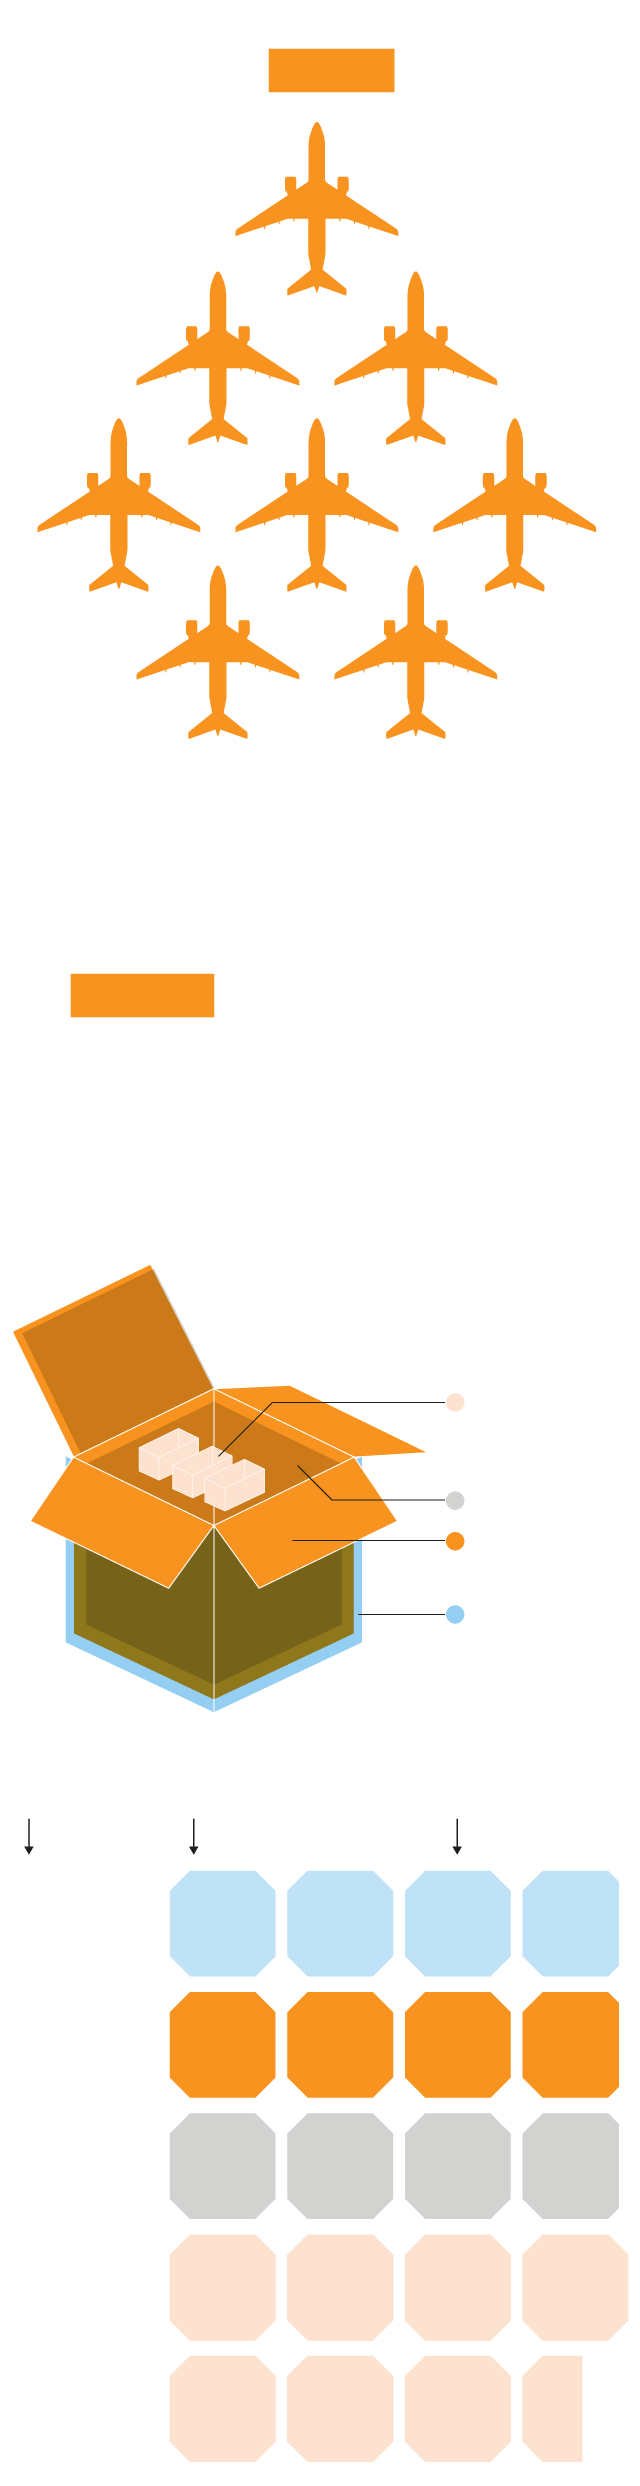
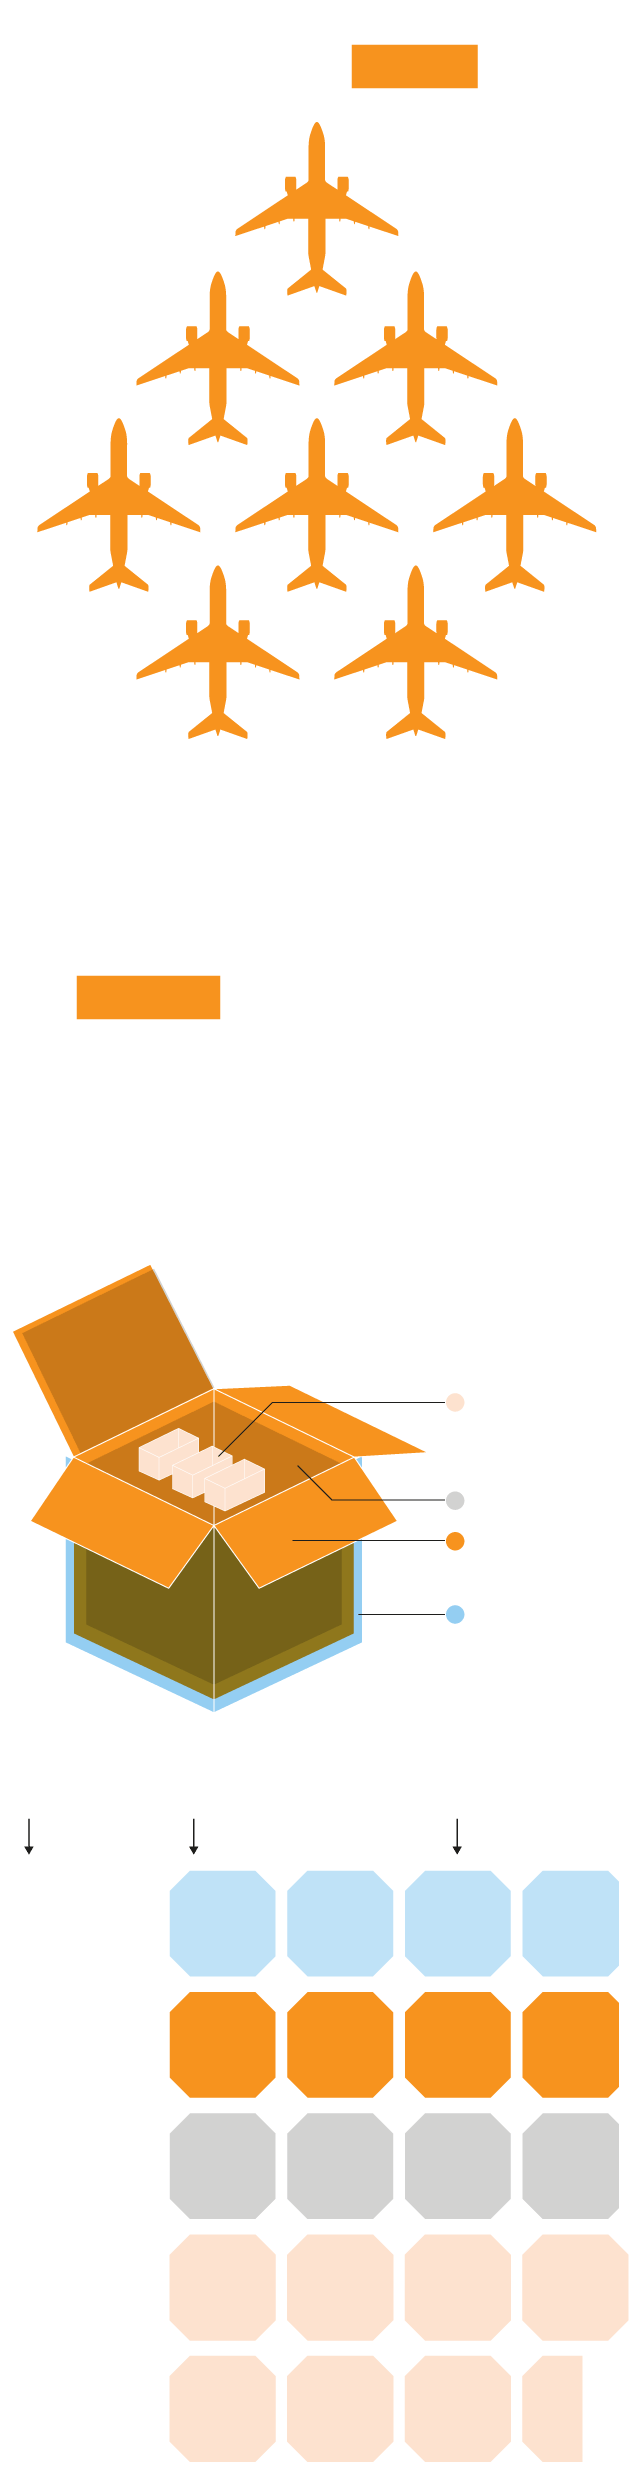
Add files via upload

diff --git a/logistica-web-v1.html b/logistica-web-v1.html
@@ -1,5 +1,5 @@
 
-<!-- Generated by ai2html v0.100.0 - 2020-12-01 22:16 -->
+<!-- Generated by ai2html v0.100.0 - 2020-12-02 18:39 -->
 <!-- ai file: logistica web.ai -->
 <style media="screen,print">
 	#g-logistica-web-v1-box ,
@@ -73,6 +73,9 @@
 		font-weight:700;
 	}
 	#g-logistica-web-v1 .g-cstyle1 {
+		font-weight:400;
+	}
+	#g-logistica-web-v1 .g-cstyle2 {
 		font-size:10px;
 	}
 
@@ -81,21 +84,22 @@
 <div id="g-logistica-web-v1-box" class="ai2html">
 
 	<!-- Artboard: v1 -->
-	<div id="g-logistica-web-v1" class="g-artboard" style="max-width: 320px;max-height: 1243px" data-aspect-ratio="0.257" data-min-width="0" data-max-width="1023">
+	<div id="g-logistica-web-v1" class="g-artboard" style="max-width: 320px;max-height: 1243px" data-aspect-ratio="0.257" data-min-width="0">
 <div style="padding: 0 0 388.5201% 0;"></div>
 		<img id="g-logistica-web-v1-img" class="g-aiImg" alt="" src="logistica-web-v1.png"/>
-		<div id="g-ai1-1" class="g-Capa_1 g-aiAbs" style="top:0.563%;left:2.4616%;width:97.1875%;">
-			<p class="g-pstyle0">Toda la flota mundial de aviones de carga tendría que volar <span class="g-cstyle0">8 veces</span> para repartir la vacuna al mundo</p>
+		<div id="g-ai1-1" class="g-Capa_1 g-aiAbs" style="top:0.4022%;left:2.4616%;width:98.125%;">
+			<p class="g-pstyle0">Toda la flota mundial de aviones de </p>
+			<p class="g-pstyle0">carga tendría que volar <span class="g-cstyle0">8 veces</span> para repartir la vacuna al mundo</p>
 		</div>
 		<div id="g-ai1-2" class="g-Capa_1 g-aiAbs" style="top:30.806%;left:49.9946%;margin-left:-44.8437%;width:89.6875%;">
 			<p class="g-pstyle1">Actualmente hay 2.010 aviones de carga en el mundo y <span class="g-cstyle0">se calcula que se necesitarán 15.000 vuelos</span> para transportar una dosis </p>
 			<p class="g-pstyle1">a cada habitante </p>
 		</div>
-		<div id="g-ai1-3" class="g-Capa_1 g-aiAbs" style="top:39.3319%;left:2.4616%;width:95.9375%;">
-			<p class="g-pstyle0">Los <span class="g-cstyle0">residuos</span> más básicos de la vacunación de toda España, equivaldrían a la superficie de <span class="g-cstyle0">veinte mazanas </span></p>
-			<p class="g-pstyle2">del Eixample</p>
+		<div id="g-ai1-3" class="g-Capa_1 g-aiAbs" style="top:39.3319%;left:2.7741%;width:97.5%;">
+			<p class="g-pstyle0">Los <span class="g-cstyle0">residuos</span> más básicos de la vacunación de toda España, equivaldrían </p>
+			<p class="g-pstyle2"><span class="g-cstyle1">a la superficie de </span>veinte mazanas del Eixample</p>
 		</div>
-		<div id="g-ai1-4" class="g-Capa_1 g-aiAbs" style="top:46.2492%;left:2.4616%;width:94.6875%;">
+		<div id="g-ai1-4" class="g-Capa_1 g-aiAbs" style="top:46.2492%;left:1.8366%;width:94.6875%;">
 			<p>Cálculos a partir de los datos de la vacunación de la gripe aportados por Alliance Healthcare España </p>
 		</div>
 		<div id="g-ai1-5" class="g-Capa_1 g-aiAbs" style="top:50.9143%;right:2.7437%;width:54.6875%;">
@@ -114,10 +118,10 @@
 			<p>Envoltorio</p>
 		</div>
 		<div id="g-ai1-10" class="g-Capa_1 g-aiAbs" style="top:70.2184%;left:63.2085%;width:34.375%;">
-			<p>Cada manzana son 10.000 m<span class="g-cstyle1">2</span></p>
+			<p>Cada manzana son 10.000 m<span class="g-cstyle2">2</span></p>
 		</div>
 		<div id="g-ai1-11" class="g-Capa_1 g-aiAbs" style="top:70.2184%;left:26.3427%;width:25%;">
-			<p class="g-pstyle4">Superficie en m<span class="g-cstyle1">2</span></p>
+			<p class="g-pstyle4">Superficie en m<span class="g-cstyle2">2</span></p>
 		</div>
 		<div id="g-ai1-12" class="g-Capa_1 g-aiAbs" style="top:71.5857%;left:2.3784%;width:21.5625%;">
 			<p class="g-pstyle4">Material</p>
@@ -150,4 +154,4 @@
 
 </div>
 
-<!-- End ai2html - 2020-12-01 22:16 -->
+<!-- End ai2html - 2020-12-02 18:39 -->
